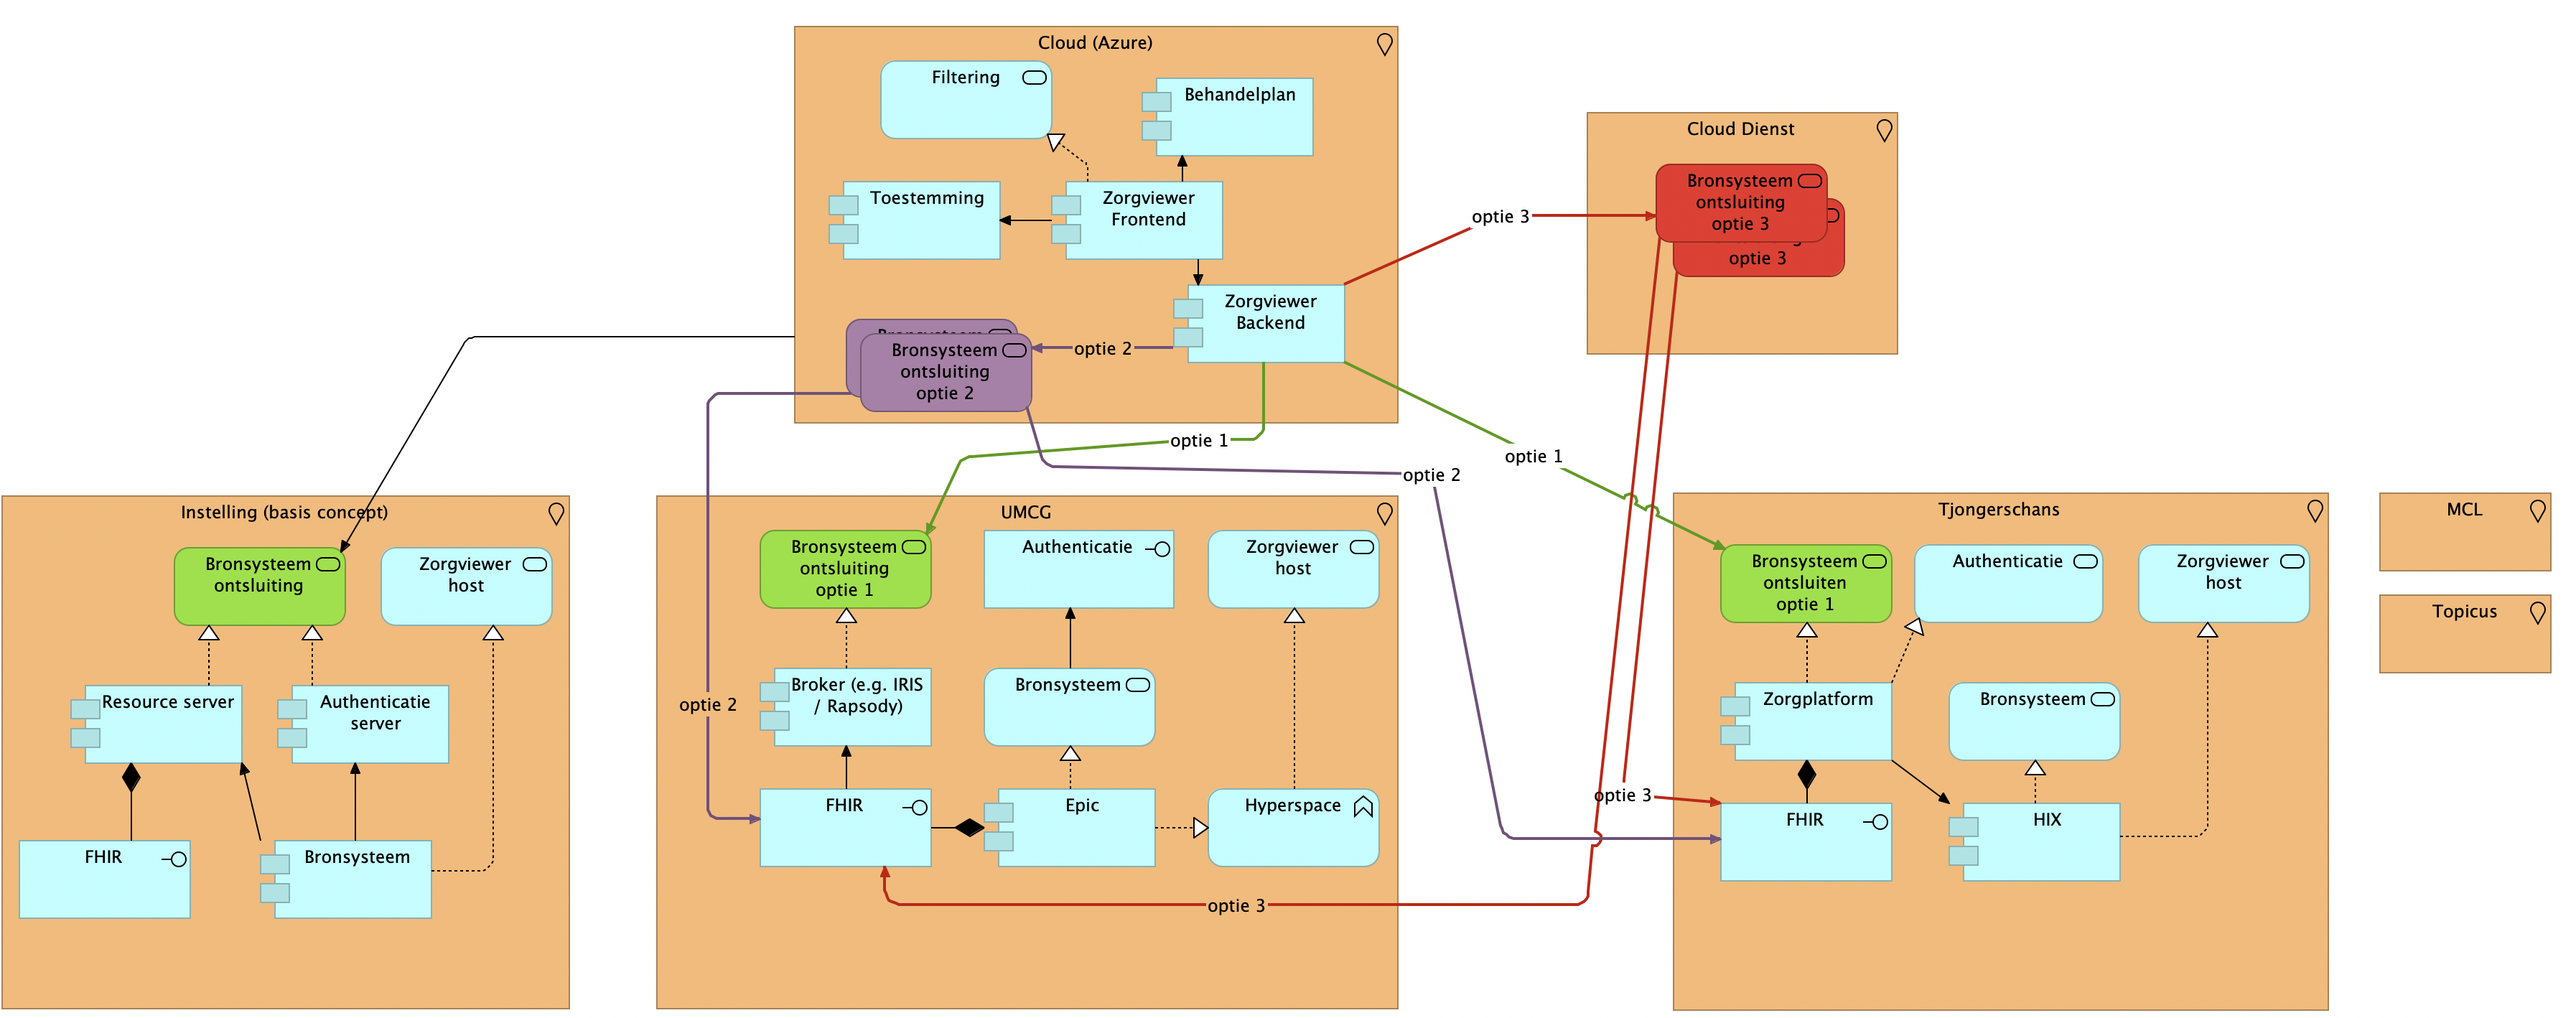
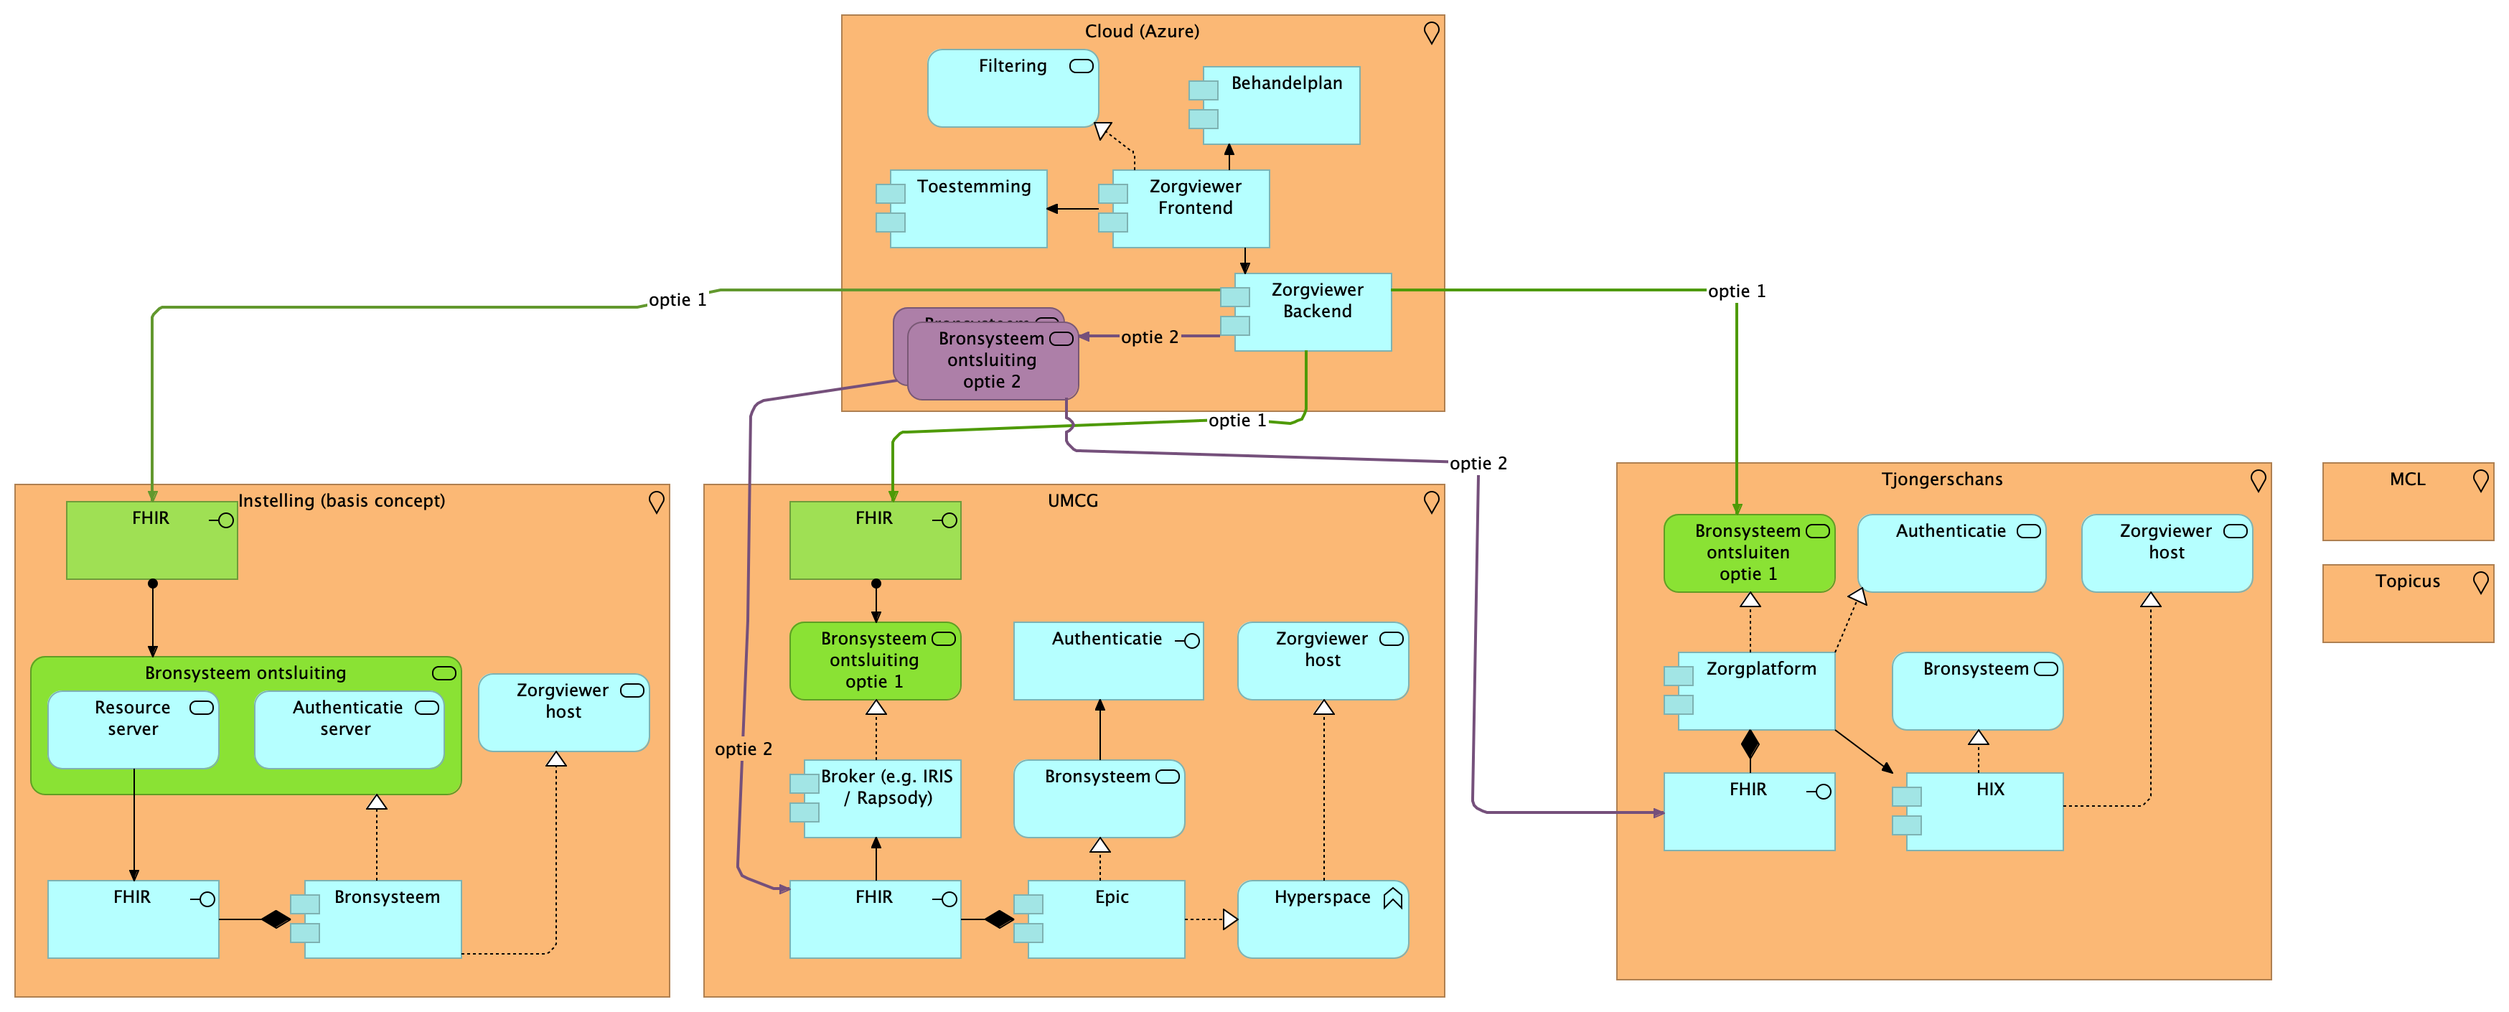
plaatje bronsysteem ontsluiten aangepast nav overleg met MZel

diff --git a/input/pagecontent/design-background.md b/input/pagecontent/design-background.md
@@ -8,7 +8,7 @@ Functionaliteiten:
 * Als deze bij de zorgaanbieder wordt geplaatst zal hier ook iets van firewall functionaliteit in zitten om de FHIR IF veilig op het internet te ontsluiten.
 * Als de Bron (EPD/ECM) geen FHIR kan of niet helemaal standaard, kunnen hier transformaties gebeuren.
 
-{% include img.html img="ontsluiten-bronsysteem-opties.jpg" caption="Opties Ontsluiten Bronsysteem" width="70%" %}
+{% include img.html img="ontsluiten-bronsysteem-opties.png" caption="Opties Ontsluiten Bronsysteem" width="70%" %}
 
 #### Optie 1 (groen)
 Voor het ontsluiten van het bronsysteem is een resource server, waar de informatie opgehaald kan worden, en is er een authenticatie server nodig, waar de authenticatie wordt afgehandeld. Bij optie 1, zijn de inrichting en het beheer met name aan de zorgaanbieder kant benodigd en kan de Zorgviewer op basis van de afgesproken standaard uit deze IG connecteren. 
